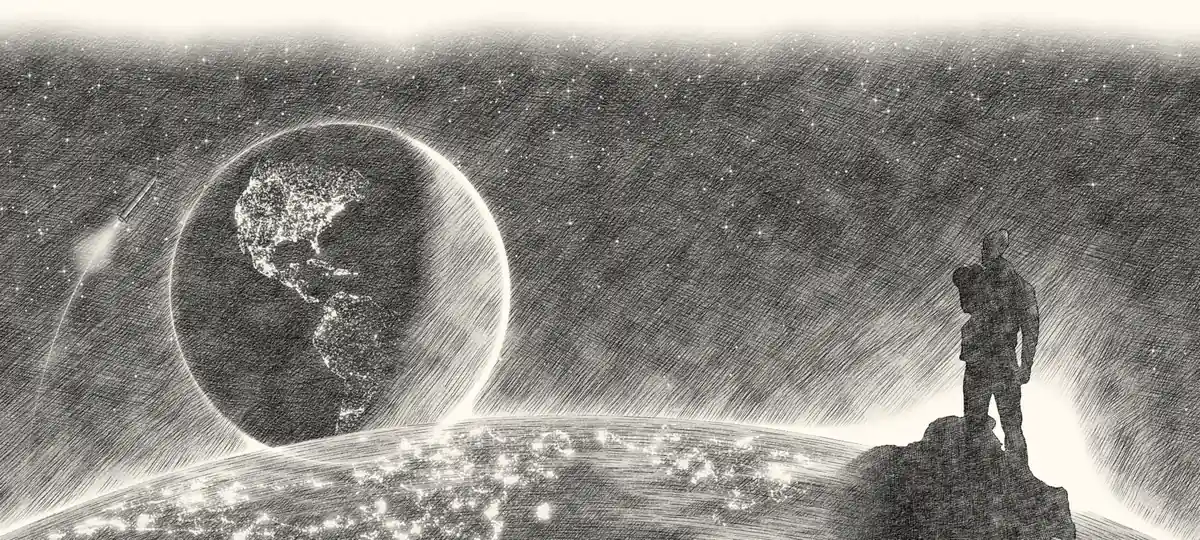
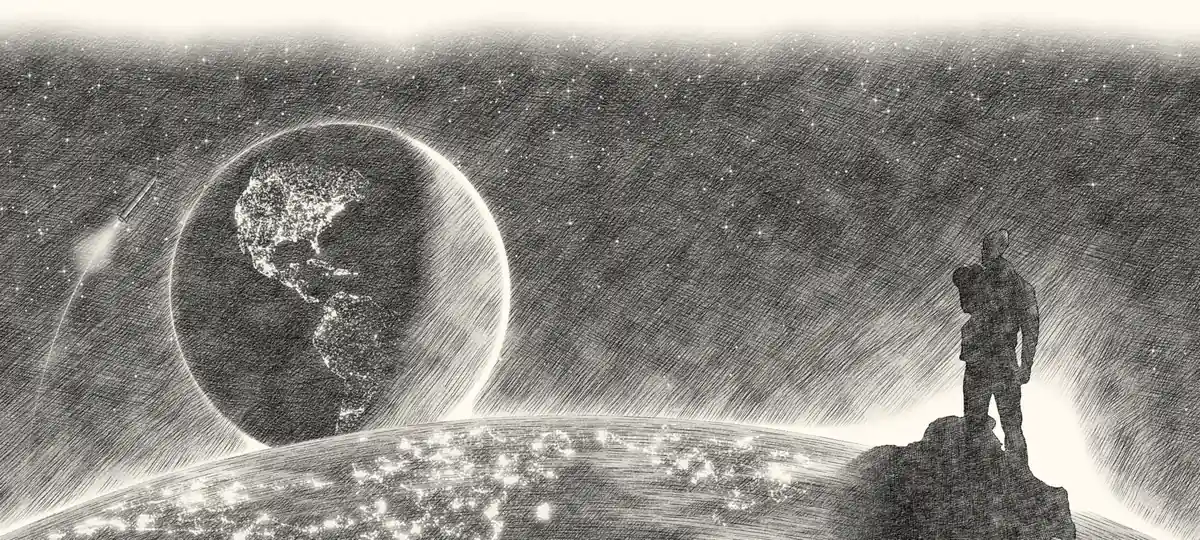
Hide the Earth's rim behind the Moon's horizon
Its outline and glow were drawn over the Moon's ground too, so the
Earth showed through the Moon.

Session: claude://claude.ai/epitaxy/local_8bf3452f-ca40-4c1d-a549-1e6323dcae47

Changed region(s): [[0.2158, 0.7704, 0.4008, 0.9185]]

diff --git a/ausschnitt.html b/ausschnitt.html
@@ -169,8 +169,8 @@
       <div class="frame">
         <div class="canvas">
           <picture>
-            <source media="(max-width: 767.98px)" srcset="/images/footer/sky-phone.webp?v=2ef47e55">
-            <img src="/images/footer/sky-1600.webp?v=90a649f4" srcset="/images/footer/sky-1200.webp?v=4ef555a5 1200w, /images/footer/sky-1600.webp?v=90a649f4 1600w" sizes="100vw" width="2400" height="1080" loading="lazy" decoding="async" alt="Bleistiftzeichnung: Ein Mann steht auf einem Gipfel über der Erde und zeigt auf ein Sternbild">
+            <source media="(max-width: 767.98px)" srcset="/images/footer/sky-phone.webp?v=825803a7">
+            <img src="/images/footer/sky-1600.webp?v=858a1ad9" srcset="/images/footer/sky-1200.webp?v=ebbefe06 1200w, /images/footer/sky-1600.webp?v=858a1ad9 1600w" sizes="100vw" width="2400" height="1080" loading="lazy" decoding="async" alt="Bleistiftzeichnung: Ein Mann steht auf einem Gipfel über der Erde und zeigt auf ein Sternbild">
           </picture>
           <svg viewBox="0 0 2400 1080" aria-label="Fußzeile">
             <defs>

diff --git a/datenschutzerklaerung.html b/datenschutzerklaerung.html
@@ -125,8 +125,8 @@
       <div class="frame">
         <div class="canvas">
           <picture>
-            <source media="(max-width: 767.98px)" srcset="/images/footer/sky-phone.webp?v=2ef47e55">
-            <img src="/images/footer/sky-1600.webp?v=90a649f4" srcset="/images/footer/sky-1200.webp?v=4ef555a5 1200w, /images/footer/sky-1600.webp?v=90a649f4 1600w" sizes="100vw" width="2400" height="1080" loading="lazy" decoding="async" alt="Bleistiftzeichnung: Ein Mann steht auf einem Gipfel über der Erde und zeigt auf ein Sternbild">
+            <source media="(max-width: 767.98px)" srcset="/images/footer/sky-phone.webp?v=825803a7">
+            <img src="/images/footer/sky-1600.webp?v=858a1ad9" srcset="/images/footer/sky-1200.webp?v=ebbefe06 1200w, /images/footer/sky-1600.webp?v=858a1ad9 1600w" sizes="100vw" width="2400" height="1080" loading="lazy" decoding="async" alt="Bleistiftzeichnung: Ein Mann steht auf einem Gipfel über der Erde und zeigt auf ein Sternbild">
           </picture>
           <svg viewBox="0 0 2400 1080" aria-label="Fußzeile">
             <defs>

diff --git a/errata.html b/errata.html
@@ -388,8 +388,8 @@
       <div class="frame">
         <div class="canvas">
           <picture>
-            <source media="(max-width: 767.98px)" srcset="/images/footer/sky-phone.webp?v=2ef47e55">
-            <img src="/images/footer/sky-1600.webp?v=90a649f4" srcset="/images/footer/sky-1200.webp?v=4ef555a5 1200w, /images/footer/sky-1600.webp?v=90a649f4 1600w" sizes="100vw" width="2400" height="1080" loading="lazy" decoding="async" alt="Bleistiftzeichnung: Ein Mann steht auf einem Gipfel über der Erde und zeigt auf ein Sternbild">
+            <source media="(max-width: 767.98px)" srcset="/images/footer/sky-phone.webp?v=825803a7">
+            <img src="/images/footer/sky-1600.webp?v=858a1ad9" srcset="/images/footer/sky-1200.webp?v=ebbefe06 1200w, /images/footer/sky-1600.webp?v=858a1ad9 1600w" sizes="100vw" width="2400" height="1080" loading="lazy" decoding="async" alt="Bleistiftzeichnung: Ein Mann steht auf einem Gipfel über der Erde und zeigt auf ein Sternbild">
           </picture>
           <svg viewBox="0 0 2400 1080" aria-label="Fußzeile">
             <defs>

diff --git a/glossar.html b/glossar.html
@@ -776,8 +776,8 @@
       <div class="frame">
         <div class="canvas">
           <picture>
-            <source media="(max-width: 767.98px)" srcset="/images/footer/sky-phone.webp?v=2ef47e55">
-            <img src="/images/footer/sky-1600.webp?v=90a649f4" srcset="/images/footer/sky-1200.webp?v=4ef555a5 1200w, /images/footer/sky-1600.webp?v=90a649f4 1600w" sizes="100vw" width="2400" height="1080" loading="lazy" decoding="async" alt="Bleistiftzeichnung: Ein Mann steht auf einem Gipfel über der Erde und zeigt auf ein Sternbild">
+            <source media="(max-width: 767.98px)" srcset="/images/footer/sky-phone.webp?v=825803a7">
+            <img src="/images/footer/sky-1600.webp?v=858a1ad9" srcset="/images/footer/sky-1200.webp?v=ebbefe06 1200w, /images/footer/sky-1600.webp?v=858a1ad9 1600w" sizes="100vw" width="2400" height="1080" loading="lazy" decoding="async" alt="Bleistiftzeichnung: Ein Mann steht auf einem Gipfel über der Erde und zeigt auf ein Sternbild">
           </picture>
           <svg viewBox="0 0 2400 1080" aria-label="Fußzeile">
             <defs>

diff --git a/index.html b/index.html
@@ -180,8 +180,8 @@
       <div class="frame">
         <div class="canvas">
           <picture>
-            <source media="(max-width: 767.98px)" srcset="/images/footer/sky-phone.webp?v=2ef47e55">
-            <img src="/images/footer/sky-1600.webp?v=90a649f4" srcset="/images/footer/sky-1200.webp?v=4ef555a5 1200w, /images/footer/sky-1600.webp?v=90a649f4 1600w" sizes="100vw" width="2400" height="1080" loading="lazy" decoding="async" alt="Bleistiftzeichnung: Ein Mann steht auf einem Gipfel über der Erde und zeigt auf ein Sternbild">
+            <source media="(max-width: 767.98px)" srcset="/images/footer/sky-phone.webp?v=825803a7">
+            <img src="/images/footer/sky-1600.webp?v=858a1ad9" srcset="/images/footer/sky-1200.webp?v=ebbefe06 1200w, /images/footer/sky-1600.webp?v=858a1ad9 1600w" sizes="100vw" width="2400" height="1080" loading="lazy" decoding="async" alt="Bleistiftzeichnung: Ein Mann steht auf einem Gipfel über der Erde und zeigt auf ein Sternbild">
           </picture>
           <svg viewBox="0 0 2400 1080" aria-label="Fußzeile">
             <defs>

diff --git a/interview.html b/interview.html
@@ -108,8 +108,8 @@
       <div class="frame">
         <div class="canvas">
           <picture>
-            <source media="(max-width: 767.98px)" srcset="/images/footer/sky-phone.webp?v=2ef47e55">
-            <img src="/images/footer/sky-1600.webp?v=90a649f4" srcset="/images/footer/sky-1200.webp?v=4ef555a5 1200w, /images/footer/sky-1600.webp?v=90a649f4 1600w" sizes="100vw" width="2400" height="1080" loading="lazy" decoding="async" alt="Bleistiftzeichnung: Ein Mann steht auf einem Gipfel über der Erde und zeigt auf ein Sternbild">
+            <source media="(max-width: 767.98px)" srcset="/images/footer/sky-phone.webp?v=825803a7">
+            <img src="/images/footer/sky-1600.webp?v=858a1ad9" srcset="/images/footer/sky-1200.webp?v=ebbefe06 1200w, /images/footer/sky-1600.webp?v=858a1ad9 1600w" sizes="100vw" width="2400" height="1080" loading="lazy" decoding="async" alt="Bleistiftzeichnung: Ein Mann steht auf einem Gipfel über der Erde und zeigt auf ein Sternbild">
           </picture>
           <svg viewBox="0 0 2400 1080" aria-label="Fußzeile">
             <defs>

diff --git a/kaufen.html b/kaufen.html
@@ -114,8 +114,8 @@
       <div class="frame">
         <div class="canvas">
           <picture>
-            <source media="(max-width: 767.98px)" srcset="/images/footer/sky-phone.webp?v=2ef47e55">
-            <img src="/images/footer/sky-1600.webp?v=90a649f4" srcset="/images/footer/sky-1200.webp?v=4ef555a5 1200w, /images/footer/sky-1600.webp?v=90a649f4 1600w" sizes="100vw" width="2400" height="1080" loading="lazy" decoding="async" alt="Bleistiftzeichnung: Ein Mann steht auf einem Gipfel über der Erde und zeigt auf ein Sternbild">
+            <source media="(max-width: 767.98px)" srcset="/images/footer/sky-phone.webp?v=825803a7">
+            <img src="/images/footer/sky-1600.webp?v=858a1ad9" srcset="/images/footer/sky-1200.webp?v=ebbefe06 1200w, /images/footer/sky-1600.webp?v=858a1ad9 1600w" sizes="100vw" width="2400" height="1080" loading="lazy" decoding="async" alt="Bleistiftzeichnung: Ein Mann steht auf einem Gipfel über der Erde und zeigt auf ein Sternbild">
           </picture>
           <svg viewBox="0 0 2400 1080" aria-label="Fußzeile">
             <defs>

diff --git a/leserstimmen.html b/leserstimmen.html
@@ -166,8 +166,8 @@
       <div class="frame">
         <div class="canvas">
           <picture>
-            <source media="(max-width: 767.98px)" srcset="/images/footer/sky-phone.webp?v=2ef47e55">
-            <img src="/images/footer/sky-1600.webp?v=90a649f4" srcset="/images/footer/sky-1200.webp?v=4ef555a5 1200w, /images/footer/sky-1600.webp?v=90a649f4 1600w" sizes="100vw" width="2400" height="1080" loading="lazy" decoding="async" alt="Bleistiftzeichnung: Ein Mann steht auf einem Gipfel über der Erde und zeigt auf ein Sternbild">
+            <source media="(max-width: 767.98px)" srcset="/images/footer/sky-phone.webp?v=825803a7">
+            <img src="/images/footer/sky-1600.webp?v=858a1ad9" srcset="/images/footer/sky-1200.webp?v=ebbefe06 1200w, /images/footer/sky-1600.webp?v=858a1ad9 1600w" sizes="100vw" width="2400" height="1080" loading="lazy" decoding="async" alt="Bleistiftzeichnung: Ein Mann steht auf einem Gipfel über der Erde und zeigt auf ein Sternbild">
           </picture>
           <svg viewBox="0 0 2400 1080" aria-label="Fußzeile">
             <defs>

diff --git a/mehr.html b/mehr.html
@@ -397,8 +397,8 @@
       <div class="frame">
         <div class="canvas">
           <picture>
-            <source media="(max-width: 767.98px)" srcset="/images/footer/sky-phone.webp?v=2ef47e55">
-            <img src="/images/footer/sky-1600.webp?v=90a649f4" srcset="/images/footer/sky-1200.webp?v=4ef555a5 1200w, /images/footer/sky-1600.webp?v=90a649f4 1600w" sizes="100vw" width="2400" height="1080" loading="lazy" decoding="async" alt="Bleistiftzeichnung: Ein Mann steht auf einem Gipfel über der Erde und zeigt auf ein Sternbild">
+            <source media="(max-width: 767.98px)" srcset="/images/footer/sky-phone.webp?v=825803a7">
+            <img src="/images/footer/sky-1600.webp?v=858a1ad9" srcset="/images/footer/sky-1200.webp?v=ebbefe06 1200w, /images/footer/sky-1600.webp?v=858a1ad9 1600w" sizes="100vw" width="2400" height="1080" loading="lazy" decoding="async" alt="Bleistiftzeichnung: Ein Mann steht auf einem Gipfel über der Erde und zeigt auf ein Sternbild">
           </picture>
           <svg viewBox="0 0 2400 1080" aria-label="Fußzeile">
             <defs>

diff --git a/pressestimmen.html b/pressestimmen.html
@@ -206,8 +206,8 @@
       <div class="frame">
         <div class="canvas">
           <picture>
-            <source media="(max-width: 767.98px)" srcset="/images/footer/sky-phone.webp?v=2ef47e55">
-            <img src="/images/footer/sky-1600.webp?v=90a649f4" srcset="/images/footer/sky-1200.webp?v=4ef555a5 1200w, /images/footer/sky-1600.webp?v=90a649f4 1600w" sizes="100vw" width="2400" height="1080" loading="lazy" decoding="async" alt="Bleistiftzeichnung: Ein Mann steht auf einem Gipfel über der Erde und zeigt auf ein Sternbild">
+            <source media="(max-width: 767.98px)" srcset="/images/footer/sky-phone.webp?v=825803a7">
+            <img src="/images/footer/sky-1600.webp?v=858a1ad9" srcset="/images/footer/sky-1200.webp?v=ebbefe06 1200w, /images/footer/sky-1600.webp?v=858a1ad9 1600w" sizes="100vw" width="2400" height="1080" loading="lazy" decoding="async" alt="Bleistiftzeichnung: Ein Mann steht auf einem Gipfel über der Erde und zeigt auf ein Sternbild">
           </picture>
           <svg viewBox="0 0 2400 1080" aria-label="Fußzeile">
             <defs>

diff --git a/sokrates.html b/sokrates.html
@@ -108,8 +108,8 @@
       <div class="frame">
         <div class="canvas">
           <picture>
-            <source media="(max-width: 767.98px)" srcset="/images/footer/sky-phone.webp?v=2ef47e55">
-            <img src="/images/footer/sky-1600.webp?v=90a649f4" srcset="/images/footer/sky-1200.webp?v=4ef555a5 1200w, /images/footer/sky-1600.webp?v=90a649f4 1600w" sizes="100vw" width="2400" height="1080" loading="lazy" decoding="async" alt="Bleistiftzeichnung: Ein Mann steht auf einem Gipfel über der Erde und zeigt auf ein Sternbild">
+            <source media="(max-width: 767.98px)" srcset="/images/footer/sky-phone.webp?v=825803a7">
+            <img src="/images/footer/sky-1600.webp?v=858a1ad9" srcset="/images/footer/sky-1200.webp?v=ebbefe06 1200w, /images/footer/sky-1600.webp?v=858a1ad9 1600w" sizes="100vw" width="2400" height="1080" loading="lazy" decoding="async" alt="Bleistiftzeichnung: Ein Mann steht auf einem Gipfel über der Erde und zeigt auf ein Sternbild">
           </picture>
           <svg viewBox="0 0 2400 1080" aria-label="Fußzeile">
             <defs>

diff --git a/wilhelm-busch.html b/wilhelm-busch.html
@@ -116,8 +116,8 @@
       <div class="frame">
         <div class="canvas">
           <picture>
-            <source media="(max-width: 767.98px)" srcset="/images/footer/sky-phone.webp?v=2ef47e55">
-            <img src="/images/footer/sky-1600.webp?v=90a649f4" srcset="/images/footer/sky-1200.webp?v=4ef555a5 1200w, /images/footer/sky-1600.webp?v=90a649f4 1600w" sizes="100vw" width="2400" height="1080" loading="lazy" decoding="async" alt="Bleistiftzeichnung: Ein Mann steht auf einem Gipfel über der Erde und zeigt auf ein Sternbild">
+            <source media="(max-width: 767.98px)" srcset="/images/footer/sky-phone.webp?v=825803a7">
+            <img src="/images/footer/sky-1600.webp?v=858a1ad9" srcset="/images/footer/sky-1200.webp?v=ebbefe06 1200w, /images/footer/sky-1600.webp?v=858a1ad9 1600w" sizes="100vw" width="2400" height="1080" loading="lazy" decoding="async" alt="Bleistiftzeichnung: Ein Mann steht auf einem Gipfel über der Erde und zeigt auf ein Sternbild">
           </picture>
           <svg viewBox="0 0 2400 1080" aria-label="Fußzeile">
             <defs>
